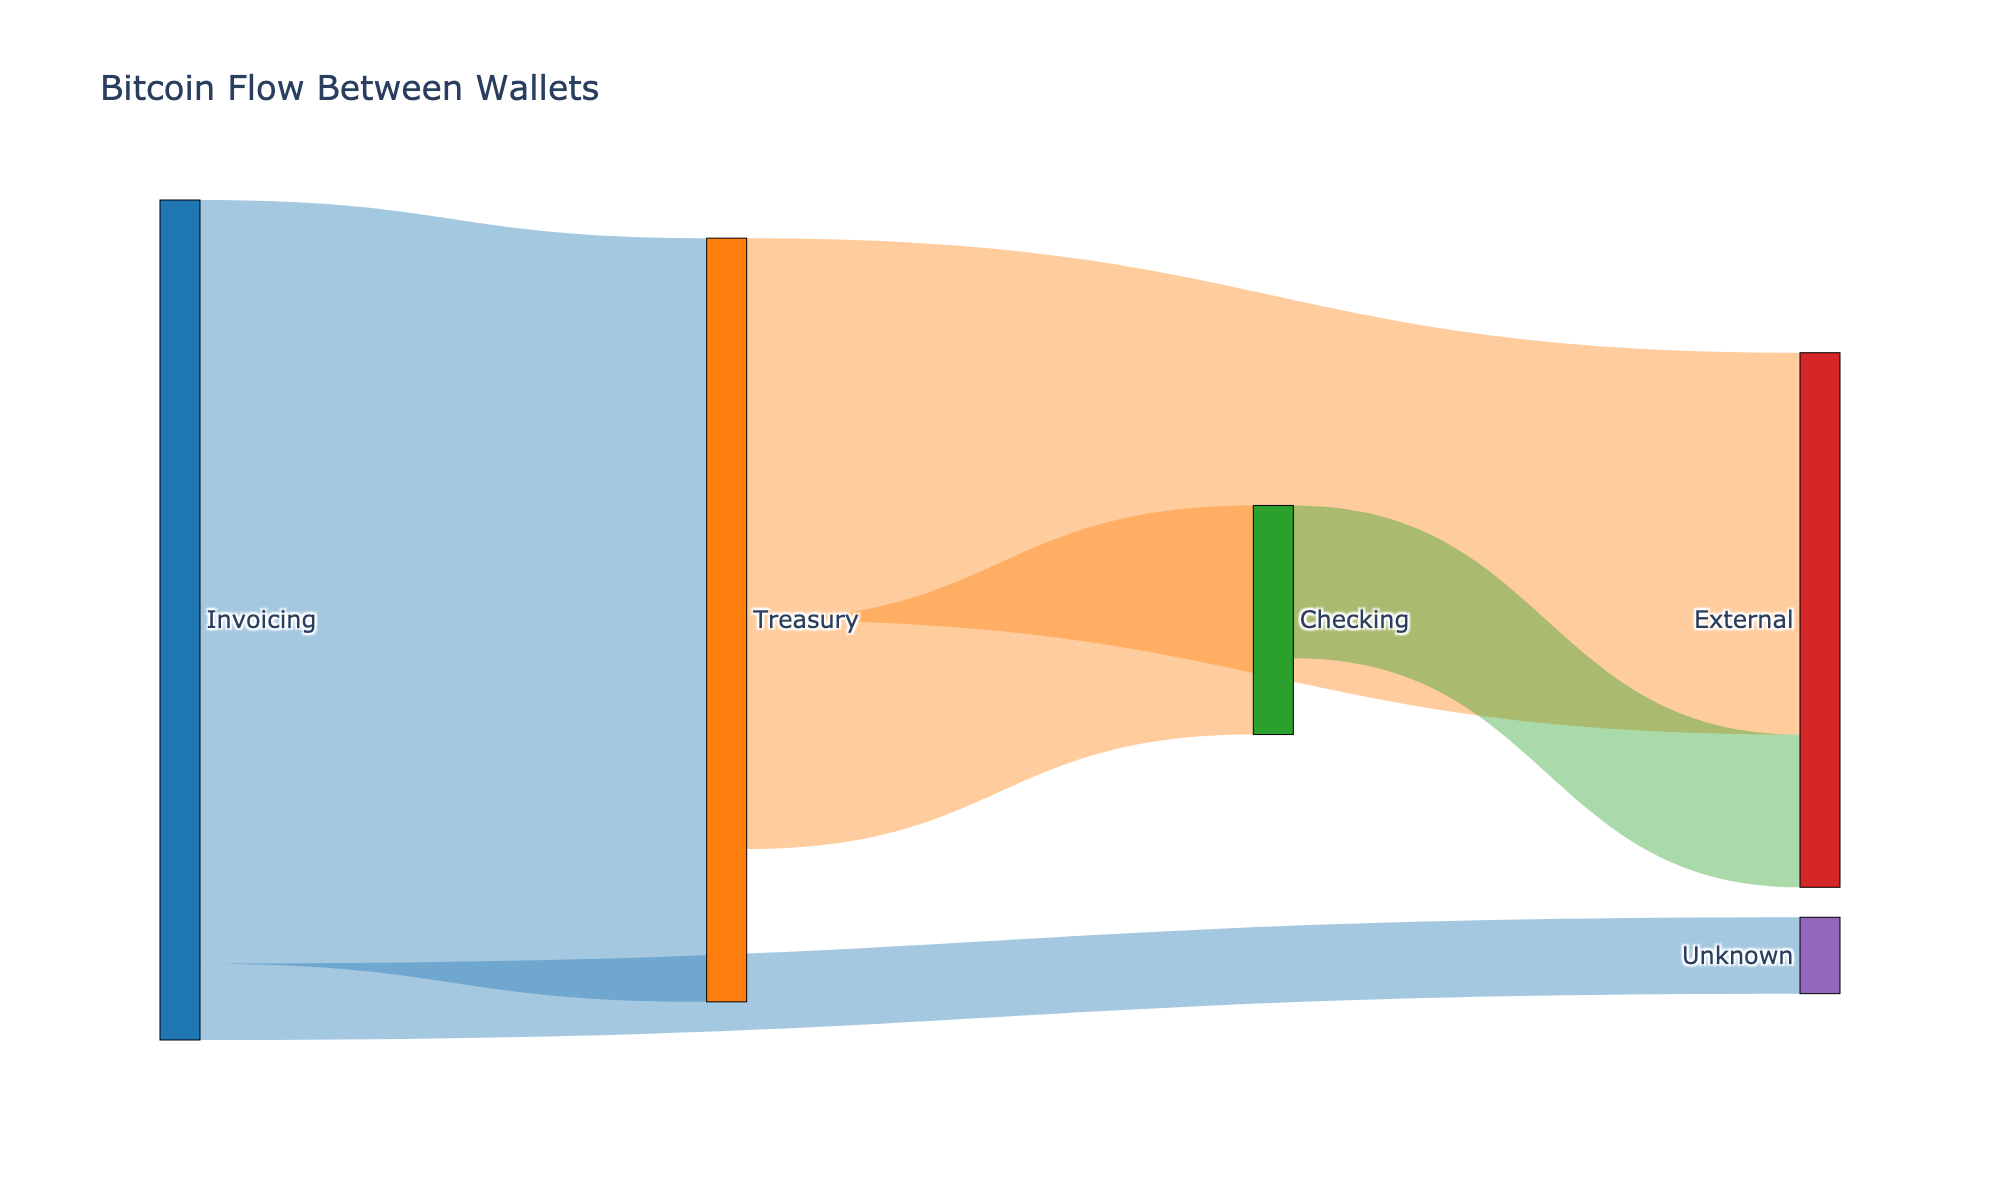
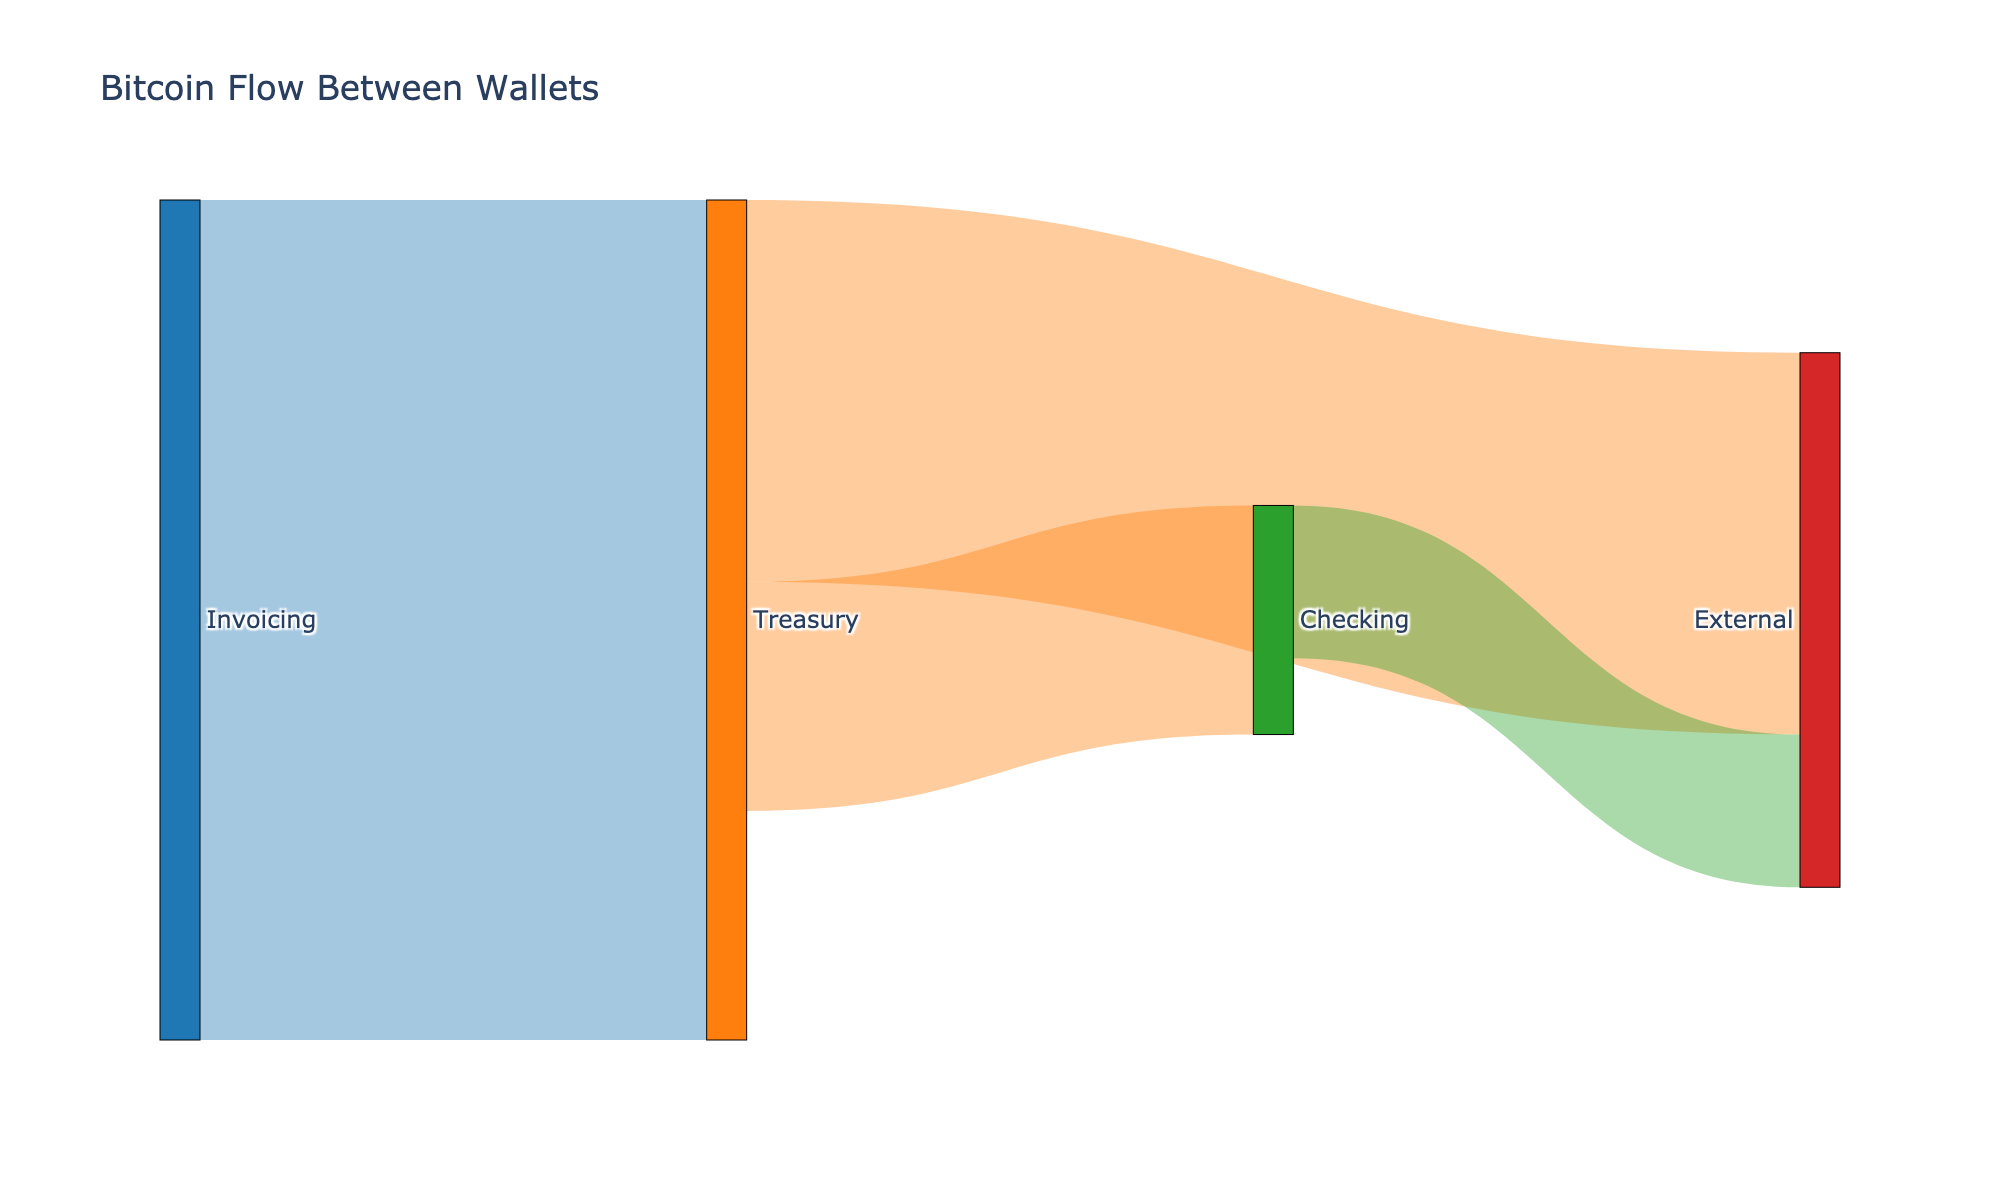
Ensure all invoices are consolidated to treasury without unknown transactions

diff --git a/txgen.py b/txgen.py
@@ -324,6 +324,49 @@ class WalletSimulator:
         # Add transactions to the main list
         self.transactions.extend(consolidated_txs)
         
+        # Verify no UTXOs are left in Wallet A - all should be consolidated to Treasury
+        if len(self.utxos['A']) > 0:
+            print(f"WARNING: {len(self.utxos['A'])} UTXOs were not consolidated from Wallet A to Treasury")
+            # Force consolidation of any remaining UTXOs
+            if len(self.utxos['A']) > 0:
+                remaining_utxos = self.utxos['A']
+                treasury_address = random.choice(wallet_b_addresses)
+                total_satoshis = sum(utxo['amount'] for utxo in remaining_utxos)
+                
+                # Create final consolidation transaction
+                tx = {
+                    'txid': 'final_consolidation',
+                    'date': self.end_date.isoformat(),
+                    'block_height': curr_block_height,
+                    'inputs': [{'txid': utxo['txid'], 'vout': utxo['vout']} for utxo in remaining_utxos],
+                    'satoshis': total_satoshis,
+                    'btc_amount': total_satoshis / COIN,
+                    'to_address': treasury_address,
+                    'wallet_from': 'A',
+                    'wallet_to': 'B',
+                    'type': 'consolidation'
+                }
+                
+                # Add to transactions list
+                consolidated_txs.append(tx)
+                self.transactions.append(tx)
+                
+                # Add to UTXO list for wallet B
+                self.utxos['B'].append({
+                    'txid': tx['txid'],
+                    'vout': 0,
+                    'amount': total_satoshis,
+                    'address': treasury_address,
+                    'block_height': curr_block_height
+                })
+                
+                # Clear all UTXOs from wallet A
+                self.utxos['A'] = []
+                
+                print(f"Created final consolidation transaction to move remaining UTXOs to Treasury")
+        else:
+            print("SUCCESS: All UTXOs from Wallet A were consolidated to Treasury")
+        
         # Save consolidation transactions to file
         with open(os.path.join(self.data_dir, 'consolidation_transactions.json'), 'w') as f:
             json.dump(consolidated_txs, f, indent=2)

diff --git a/create_sample_images.py b/create_sample_images.py
@@ -20,17 +20,16 @@ y2 = np.cumsum(np.random.rand(len(months)) * 0.5)  # Wallet B
 y3 = np.random.rand(len(months)) * 0.3  # Wallet C
 
 # 1. True Sankey Diagram
-nodes = ['Invoicing', 'Treasury', 'Checking', 'External', 'Unknown']
-node_colors = ['#1f77b4', '#ff7f0e', '#2ca02c', '#d62728', '#9467bd']
+nodes = ['Invoicing', 'Treasury', 'Checking', 'External']
+node_colors = ['#1f77b4', '#ff7f0e', '#2ca02c', '#d62728']
 
 # Define source, target, and value for Sankey diagram
-source = [0, 0, 1, 1, 2]  # Indices of source nodes
-target = [1, 4, 2, 3, 3]  # Indices of target nodes
-value = [50, 5, 15, 25, 10]  # Values of flows
+source = [0, 1, 1, 2]  # Indices of source nodes
+target = [1, 2, 3, 3]  # Indices of target nodes
+value = [55, 15, 25, 10]  # Values of flows
 
 # Create flow colors - using simple static colors
 link_colors = ['rgba(31, 119, 180, 0.4)', 
-               'rgba(31, 119, 180, 0.4)', 
                'rgba(255, 127, 14, 0.4)', 
                'rgba(255, 127, 14, 0.4)', 
                'rgba(44, 160, 44, 0.4)']
